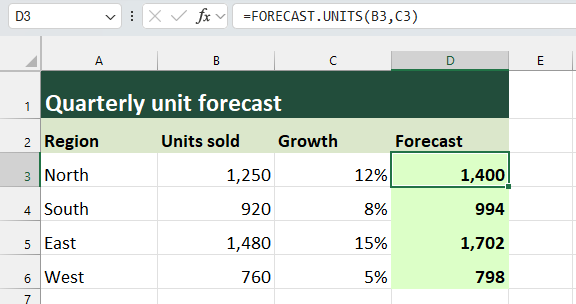
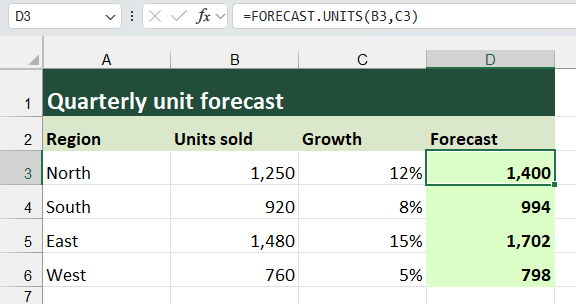
Make the forecast walkthrough reproducible from a starter workbook

Changed region(s): [[0.0, 0.1184, 1.0, 1.0]]

diff --git a/docs/index.html b/docs/index.html
@@ -26,7 +26,7 @@
       </div>
       <div class="demo" aria-label="Forecast worksheet and its Python function">
         <div class="sheet-window">
-          <div class="sheet-title"><svg viewBox="0 0 24 24" fill="none" stroke="currentColor" stroke-width="1.65" stroke-linecap="round" stroke-linejoin="round" aria-hidden="true"><rect x="3" y="4" width="18" height="16" rx="2"/><path d="M3 10h18M9 10v10"/></svg>Forecast.csv</div>
+          <div class="sheet-title"><svg viewBox="0 0 24 24" fill="none" stroke="currentColor" stroke-width="1.65" stroke-linecap="round" stroke-linejoin="round" aria-hidden="true"><rect x="3" y="4" width="18" height="16" rx="2"/><path d="M3 10h18M9 10v10"/></svg>Forecast.xlsx</div>
           <img src="assets/forecast.png" width="576" height="304" alt="FORECAST.UNITS multiplies 1,250 by 1.12 and returns 1,400 in the selected Excel cell.">
         </div>
         <div class="source-window"><div class="source-title"><svg viewBox="0 0 24 24" fill="none" stroke="currentColor" stroke-width="1.65" stroke-linecap="round" stroke-linejoin="round" aria-hidden="true"><path d="m8 7-5 5 5 5m8-10 5 5-5 5m-3-14-2 18"/></svg>forecast.py</div>
@@ -49,7 +49,7 @@
         <a href="#compiler" id="tab-compiler"><svg viewBox="0 0 24 24" fill="none" stroke="currentColor" stroke-width="1.65" stroke-linecap="round" stroke-linejoin="round" aria-hidden="true"><path d="M3 4h8v7H3zM13 13h8v7h-8zM15 6h4v4M5 14v4h5"/></svg>XLL compiler</a>
       </nav>
       <article class="panel" id="worksheet">
-        <div class="description"><h3>Call Python from a cell</h3><p>Save the example file in a folder you trust. In <b>Python → Startup Folders</b>, add that folder under <b>Worksheet functions</b> and choose <b>Refresh</b>.</p><p>Enter <code>=FORECAST.UNITS(B3,C3)</code> in D3. With 1,250 units in B3 and 12% in C3, the cell returns 1,400.</p><a href="assets/forecast.py" download>Download forecast.py</a></div>
+        <div class="description"><h3>Call Python from a cell</h3><p>Save the example file in a folder you trust. In <b>Python → Startup Folders</b>, add that folder under <b>Worksheet functions</b> and choose <b>Refresh</b>.</p><p>Open the <a href="assets/Forecast.xlsx" download>starter workbook</a>. In D3, enter <code>=FORECAST.UNITS(B3,C3)</code> to get 1,400. Fill the formula down to D6 for the other regions.</p><a href="assets/forecast.py" download>Download forecast.py</a></div>
         <a class="capture" href="assets/worksheet.png" aria-label="Open full-size screenshot: Worksheet functions"><img src="assets/worksheet.png" width="992" height="453" loading="lazy" alt="Excel’s Python ribbon and the FORECAST.UNITS formula returning 1,400 in cell D3."></a>
       </article>
       <article class="panel" id="editor">
@@ -57,11 +57,11 @@
         <a class="capture" href="assets/editor.png" aria-label="Open full-size screenshot: Code editor"><img src="assets/editor.png" width="1290" height="690" loading="lazy" alt="The bundled Theia editor showing the Python function behind FORECAST.UNITS."></a>
       </article>
       <article class="panel" id="console">
-        <div class="description"><h3>Inspect a range from the console</h3><p>Open <b>Python → Console</b>. Import <code>Application</code> from <code>xll_python</code> to read and write cells in the current workbook.</p><p>Here, <code>Range("D3:D6").Value2</code> returns the four forecast values. Expand the list to inspect each row, or sum them in Python to get 4,894.</p><a href="https://github.com/sancarn/xll-python#python-console">Console guide</a></div>
+        <div class="description"><h3>Inspect a range from the console</h3><p>Open <b>Python → Console</b>. Import <code>Application</code> from <code>xll_python</code> to read and write cells in the current workbook.</p><p><code>Application.ActiveSheet.Range("D3:D6").Value2</code> returns the four forecast values. Expand the list to inspect each row, or sum them in Python to get 4,894.</p><a href="https://github.com/sancarn/xll-python#python-console">Console guide</a></div>
         <a class="capture" href="assets/console.png" aria-label="Open full-size screenshot: Console"><img src="assets/console.png" width="1290" height="690" loading="lazy" alt="Python console displaying the four rows returned by Excel and their sum of 4,894."></a>
       </article>
       <article class="panel" id="packages">
-        <div class="description"><h3>Install packages for Excel</h3><p>Choose <b>Python → Manage Packages</b>. Search PyPI by name and choose <b>Add</b> to install a package in the add-in’s Python environment.</p><p>The <b>Installed</b> tab lists versions and dependencies. Use <b>Advanced</b> to run a pip command or install a local wheel.</p><a href="https://github.com/sancarn/xll-python#load-the-add-in">Package guide</a></div>
+        <div class="description"><h3>Install packages for Excel</h3><p>Choose <b>Python → Manage Packages</b>. Search PyPI by name and choose <b>Add</b> to install a package in the add-in’s Python environment.</p><p>The <b>Installed</b> tab lists versions and dependencies. Use <b>Advanced</b> to run a pip command or install a local wheel.</p><a href="https://github.com/sancarn/xll-python#load-the-add-in">Add-in guide</a></div>
         <a class="capture" href="assets/packages.png" aria-label="Open full-size screenshot: Packages"><img src="assets/packages.png" width="1290" height="690" loading="lazy" alt="Manage Packages showing Add buttons for openpyxl, pandas, numpy and xlsxwriter."></a>
       </article>
       <article class="panel" id="compiler">

diff --git a/docs/site.css b/docs/site.css
@@ -33,7 +33,7 @@ h1, h2, h3, p, pre { margin: 0; }
 .mast-inner { min-height: 4.8rem; }
 .brand { display: inline-flex; align-items: center; gap: .65rem; font-weight: 720; font-size: 1.3rem; letter-spacing: -.035em; text-decoration: none; white-space: nowrap; }
 .mast nav, .footer nav { display: flex; align-items: center; gap: clamp(1rem, 3vw, 2.6rem); }
-.mast nav a, .footer nav a { font-size: .94rem; text-decoration: none; }
+.mast nav a, .footer nav a { white-space: nowrap; font-size: .94rem; text-decoration: none; }
 .mast nav a:hover, .footer nav a:hover { text-decoration: underline; }
 .git { display: inline-flex; align-items: center; gap: .45rem; }
 .git svg { width: 1rem; }
@@ -70,9 +70,9 @@ h2 { font-size: clamp(2.25rem, 3.65vw, 3.65rem); line-height: 1.08; font-weight:
 .tour.enhanced .panel { margin-top: 0; }
 h3 { font-size: clamp(1.55rem, 2.35vw, 2.45rem); line-height: 1.15; letter-spacing: -.05em; font-weight: 600; }
 .description p, .setup p { margin-top: 1rem; color: var(--muted); }
-.description a { display: inline-block; margin-top: 1rem; font-weight: 650; }
+.description > a { display: inline-block; margin-top: 1rem; font-weight: 650; }
 .description code, .setup code { font-size: .93em; overflow-wrap: anywhere; }
-.capture { display: grid; place-items: center; background: #e1ecdf; border: 1px solid #ccdbcd; padding: clamp(.6rem, 2vw, 1.8rem); border-radius: 8px; aspect-ratio: 1.68; cursor: zoom-in; }
+.capture { display: grid; place-items: center; background: #e1ecdf; border: 1px solid #ccdbcd; padding: clamp(.6rem, 2vw, 1.8rem); border-radius: 8px; cursor: zoom-in; }
 .capture img { display: block; width: 100%; height: auto; border: 1px solid #abb9b0; box-shadow: 0 5px 13px #213c2b18; }
 .setup { background: #eaf0e7; border-block: 1px solid var(--rule); }
 .setup-inner { display: grid; grid-template-columns: .8fr 1.2fr; gap: 10%; }
@@ -105,7 +105,8 @@ h3 { font-size: clamp(1.55rem, 2.35vw, 2.45rem); line-height: 1.15; letter-spaci
   .mast nav a { font-size: .85rem; }
   .git svg { display: none; }
   .hero-inner { grid-template-columns: 1fr; gap: 2.25rem; padding-block: 3.25rem; }
-  .demo { width: 100%; max-width: 30rem; justify-self: center; }
+  .demo { aspect-ratio: 1.08; width: 100%; max-width: 30rem; justify-self: center; }
+  .sheet-window { width: 93%; }
   .intro p { margin-block: 1.1rem 1.4rem; }
   .tour-nav { gap: .45rem; margin: 1.3rem 0; }
   .tour-nav a { padding: .5rem .66rem; font-size: .875rem; }
